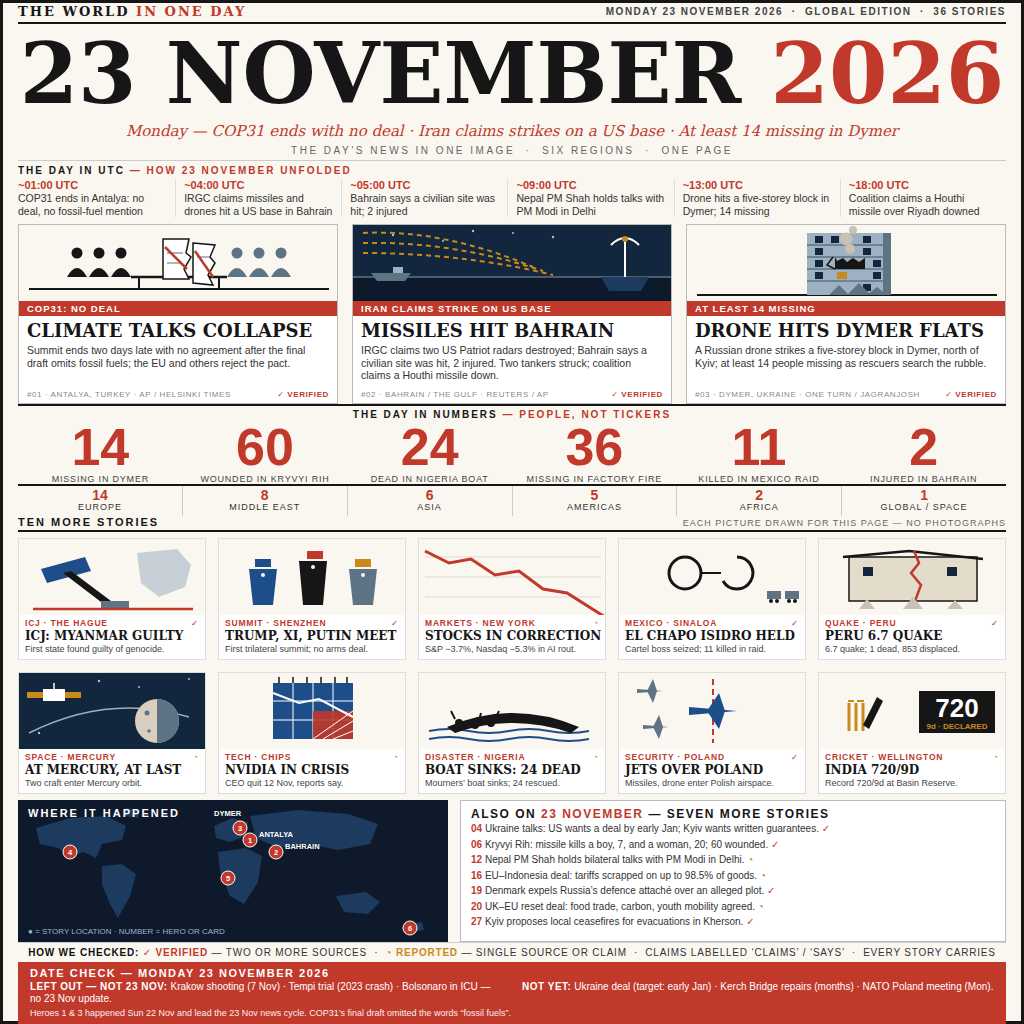
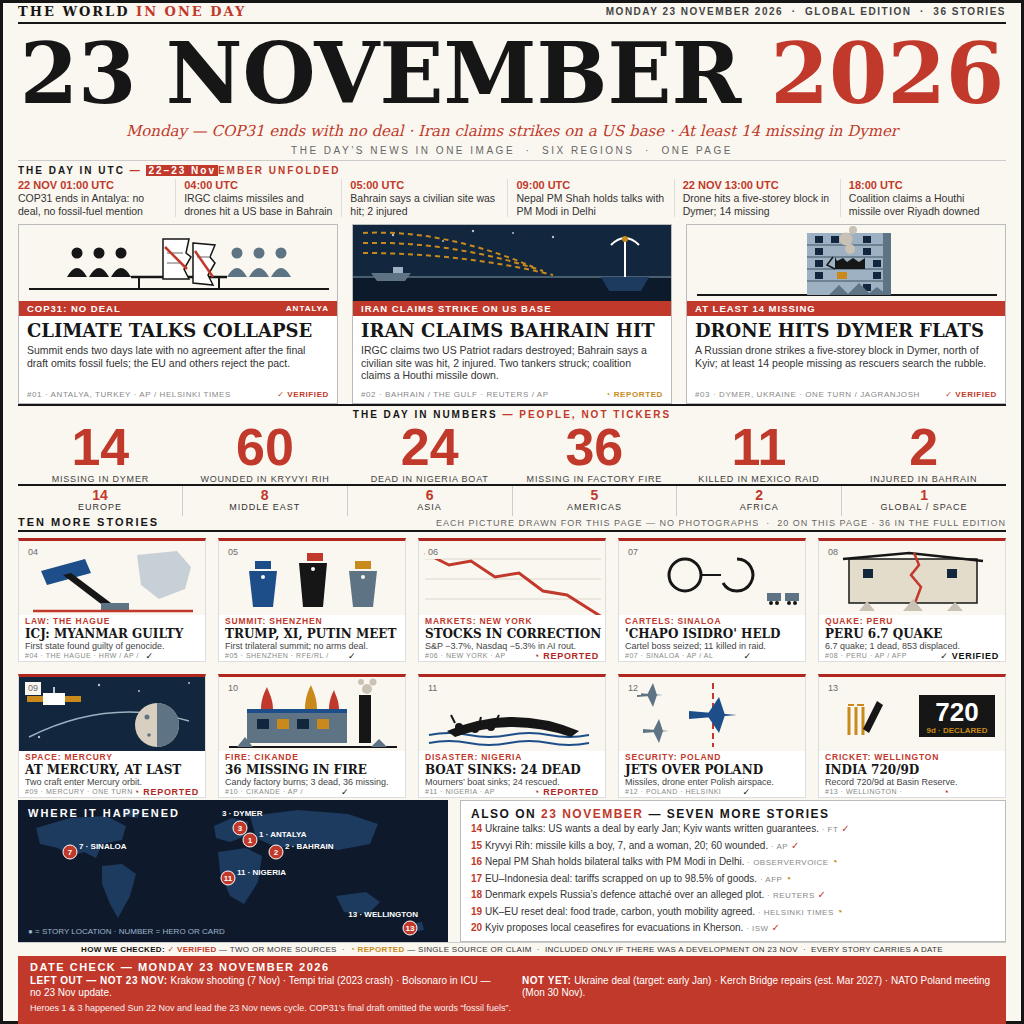
news-image-20261123: fix round — Superbot 17-fix plan (both reviewers NOT READY)
- Timeline vs DATE CHECK: header 22-23 Nov, entries 1+5 dated 22 Nov, hyphens dropped
- Inclusion rule in legend; NVIDIA replaced by Indonesia candy factory fire (#18, 3 dead, 36 missing, AP/Reuters VERIFIED) — no fabricated board meeting
- Hero 2 headline IRAN CLAIMS BAHRAIN HIT, badge REPORTED
- One sequence 01-20 (heroes 01-03, cards 04-13, ALSO ON 14-20), map markers renumbered + labelled
- Source + mark on all 17 stories; legend rewritten (fits one line); 36 vs 20 explained
- Item 27 as ALSO ON row 20; hero 1 kicker ANTALYA; badges 9px labelled
- EL CHAPO ISIDRO -> 'CHAPO ISIDRO' HELD; NOT YET dated; map labels on one line
- KRYVYI RIH spelling (was already correct); DATE CHECK footnote 9px + padding
- 3px red rule on card tops; kickers normalised to topic: place

diff --git a/build/front.html b/build/front.html
@@ -24,6 +24,7 @@
   .utc { top:160px; height:64px; border-top:1px solid #ccc; padding-top:4px; }
   .utc .uh { font-size:10px; font-weight:700; letter-spacing:2px; }
   .utc .uh span { color:#c0392b; }
+  .utc .uh .hl { background:#c0392b; color:#fff; padding:0 2px; }
   .utc .cols { display:flex; margin-top:3px; }
   .utc .col { flex:1; padding:0 8px; border-left:1px solid #ddd; }
   .utc .col:first-child { border-left:none; padding-left:0; }
@@ -34,7 +35,8 @@
   .hero { width:320px; height:180px; border:1px solid #bbb; background:#fff; position:relative; overflow:hidden; }
   .hero .art { width:320px; height:76px; overflow:hidden; }
   .hero .art svg { display:block; }
-  .hero .banner { height:15px; background:#c0392b; color:#fff; font-size:9.5px; font-weight:700; letter-spacing:1px; line-height:15px; padding-left:8px; }
+  .hero .banner { height:15px; background:#c0392b; color:#fff; font-size:9.5px; font-weight:700; letter-spacing:1px; line-height:15px; padding-left:8px; display:flex; justify-content:space-between; align-items:center; }
+  .hero .banner .br { font-size:8px; padding-right:8px; letter-spacing:1px; }
   .hero h2 { font-family:"DejaVu Serif",serif; font-size:18px; font-weight:700; line-height:21px; padding:4px 8px 0 8px; white-space:nowrap; }
   .hero .dek { font-size:10.5px; line-height:12.5px; color:#333; padding:3px 8px 0 8px; }
   .hero .src { position:absolute; left:8px; right:8px; bottom:4px; font-size:8px; letter-spacing:0.6px; color:#888; display:flex; justify-content:space-between; }
@@ -59,16 +61,18 @@
   .cardsband .ch { height:16px; display:flex; justify-content:space-between; align-items:baseline; border-bottom:2px solid #161616; }
   .cardsband .ch .t { font-size:11px; font-weight:700; letter-spacing:2px; }
   .cardsband .ch .n { font-size:9px; letter-spacing:1px; color:#666; }
-  .grid { display:grid; grid-template-columns:188px 188px 188px 188px 188px; grid-template-rows:122px 122px; gap:12px; margin-top:6px; }
-  .card { border:1px solid #ddd; background:#fff; overflow:hidden; }
-  .card .art { width:188px; height:76px; overflow:hidden; }
+  .grid { display:grid; grid-template-columns:188px 188px 188px 188px 188px; grid-template-rows:124px 124px; gap:12px; margin-top:6px; }
+  .card { position:relative; border:1px solid #ddd; border-top:3px solid #B3261E; background:#fff; overflow:hidden; }
+  .card .art { width:188px; height:74px; overflow:hidden; }
   .card .art svg { display:block; }
-  .card .ban { font-size:8.5px; font-weight:700; letter-spacing:0.8px; color:#c0392b; padding:3px 6px 0 6px; display:flex; justify-content:space-between; }
-  .card .ban .badge { color:#c0392b; }
-  .card .ban .badge.rep { color:#c98a1b; }
-  .card h3 { font-family:"DejaVu Serif",serif; font-size:12px; font-weight:700; line-height:14px; padding:1px 6px 0 6px; white-space:nowrap; }
-  .card .dek { font-size:9px; line-height:10.5px; color:#444; padding:1px 6px 0 6px; white-space:nowrap; overflow:hidden; }
-  .card .src { font-size:7.5px; letter-spacing:0.5px; color:#888; padding:2px 6px 0 6px; }
+  .card .num { position:absolute; top:5px; left:6px; font-size:9px; line-height:11px; color:#6B6B6B; background:#faf7f0; padding:1px 3px; z-index:3; }
+  .card .ban { font-size:8.5px; font-weight:700; letter-spacing:0.8px; color:#c0392b; padding:0 6px; line-height:12px; height:12px; }
+  .card h3 { font-family:"DejaVu Serif",serif; font-size:12px; font-weight:700; line-height:14px; height:14px; padding:0 6px; white-space:nowrap; }
+  .card .dek { font-size:9px; line-height:10px; height:10px; color:#444; padding:0 6px; white-space:nowrap; overflow:hidden; }
+  .card .src { font-size:7px; letter-spacing:0.5px; color:#888; padding:0 6px; line-height:10px; height:10px; display:flex; justify-content:space-between; }
+  .card .src .fbadge { font-size:9px; font-weight:700; letter-spacing:0.08em; }
+  .card .src .fbadge.v { color:#111111; }
+  .card .src .fbadge.r { color:#B3261E; }
   /* 8 map + also 800-942 */
   .mapband { top:800px; height:142px; display:flex; gap:12px; }
   .map { width:430px; height:142px; background:#0e1a2b; position:relative; overflow:hidden; }
@@ -80,20 +84,21 @@
   .also .ah span { color:#c0392b; }
   .also .ai { font-size:10px; line-height:14.5px; color:#333; margin-top:1px; white-space:nowrap; overflow:hidden; }
   .also .ai b { color:#c0392b; }
+  .also .ai .asrc { font-size:8px; color:#888; letter-spacing:0.5px; }
   .also .ai .bdg { font-weight:700; color:#c0392b; }
   .also .ai .bdg.rep { color:#c98a1b; }
-  /* 9 how checked 942-962 */
-  .checked { top:942px; height:20px; border-top:1px solid #ccc; font-size:10px; letter-spacing:0.8px; color:#333; text-align:center; line-height:20px; }
+  /* 9 how checked 942-956 */
+  .checked { top:942px; height:14px; border-top:1px solid #ccc; font-size:8px; letter-spacing:0.04em; color:#333; text-align:center; line-height:14px; }
   .checked b { color:#111; }
   .checked .v { color:#c0392b; font-weight:700; }
   .checked .r { color:#c98a1b; font-weight:700; }
-  /* 10 date check 962-1024 */
-  .datecheck { top:962px; height:62px; background:#c0392b; color:#fff; padding:5px 12px 0 12px; }
+  /* 10 date check 956-1024 */
+  .datecheck { top:956px; height:68px; background:#c0392b; color:#fff; padding:5px 12px 6px 12px; }
   .datecheck .t { font-size:11px; font-weight:700; letter-spacing:1.5px; }
   .datecheck .cols { display:flex; gap:20px; margin-top:2px; }
   .datecheck .col { flex:1; font-size:10px; line-height:12px; }
   .datecheck .col b { letter-spacing:0.5px; }
-  .datecheck .foot { font-size:9px; line-height:11px; margin-top:3px; opacity:0.92; }
+  .datecheck .foot { font-size:9px; line-height:1.4; margin-top:3px; opacity:0.92; }
 </style>
 </head>
 <body>
@@ -112,14 +117,14 @@
 </div>
 
 <div class="band utc">
-  <div class="uh">THE DAY IN UTC <span>&mdash; HOW 23 NOVEMBER UNFOLDED</span></div>
+  <div class="uh">THE DAY IN UTC <span>&mdash; <span class="hl">22&ndash;23 Nov</span>EMBER UNFOLDED</span></div>
   <div class="cols">
-    <div class="col"><div class="t">~01:00 UTC</div><div class="e">COP31 ends in Antalya: no deal, no fossil-fuel mention</div></div>
-    <div class="col"><div class="t">~04:00 UTC</div><div class="e">IRGC claims missiles and drones hit a US base in Bahrain</div></div>
-    <div class="col"><div class="t">~05:00 UTC</div><div class="e">Bahrain says a civilian site was hit; 2 injured</div></div>
-    <div class="col"><div class="t">~09:00 UTC</div><div class="e">Nepal PM Shah holds talks with PM Modi in Delhi</div></div>
-    <div class="col"><div class="t">~13:00 UTC</div><div class="e">Drone hits a five-storey block in Dymer; 14 missing</div></div>
-    <div class="col"><div class="t">~18:00 UTC</div><div class="e">Coalition claims a Houthi missile over Riyadh downed</div></div>
+    <div class="col"><div class="t">22 NOV 01:00 UTC</div><div class="e">COP31 ends in Antalya: no deal, no fossil-fuel mention</div></div>
+    <div class="col"><div class="t">04:00 UTC</div><div class="e">IRGC claims missiles and drones hit a US base in Bahrain</div></div>
+    <div class="col"><div class="t">05:00 UTC</div><div class="e">Bahrain says a civilian site was hit; 2 injured</div></div>
+    <div class="col"><div class="t">09:00 UTC</div><div class="e">Nepal PM Shah holds talks with PM Modi in Delhi</div></div>
+    <div class="col"><div class="t">22 NOV 13:00 UTC</div><div class="e">Drone hits a five-storey block in Dymer; 14 missing</div></div>
+    <div class="col"><div class="t">18:00 UTC</div><div class="e">Coalition claims a Houthi missile over Riyadh downed</div></div>
   </div>
 </div>
 
@@ -149,7 +154,7 @@
       <line x1="146" y1="22" x2="168" y2="44" stroke="#c0392b" stroke-width="2.5"/>
       <line x1="176" y1="26" x2="194" y2="52" stroke="#c0392b" stroke-width="2.5"/>
     </svg></div>
-    <div class="banner">COP31: NO DEAL</div>
+    <div class="banner"><span>COP31: NO DEAL</span><span class="br">ANTALYA</span></div>
     <h2>CLIMATE TALKS COLLAPSE</h2>
     <div class="dek">Summit ends two days late with no agreement after the final draft omits fossil fuels; the EU and others reject the pact.</div>
     <div class="src"><span>#01 &middot; ANTALYA, TURKEY &middot; AP / HELSINKI TIMES</span><span class="badge">&#10003; VERIFIED</span></div>
@@ -173,9 +178,9 @@
       <circle cx="272" cy="14" r="3" fill="#c98a1b"/>
     </svg></div>
     <div class="banner">IRAN CLAIMS STRIKE ON US BASE</div>
-    <h2>MISSILES HIT BAHRAIN</h2>
+    <h2>IRAN CLAIMS BAHRAIN HIT</h2>
     <div class="dek">IRGC claims two US Patriot radars destroyed; Bahrain says a civilian site was hit, 2 injured. Two tankers struck; coalition claims a Houthi missile down.</div>
-    <div class="src"><span>#02 &middot; BAHRAIN / THE GULF &middot; REUTERS / AP</span><span class="badge">&#10003; VERIFIED</span></div>
+    <div class="src"><span>#02 &middot; BAHRAIN / THE GULF &middot; REUTERS / AP</span><span class="badge rep">&#9684; REPORTED</span></div>
   </div>
   <div class="hero">
     <div class="art"><svg width="320" height="76" viewBox="0 0 320 76">
@@ -228,7 +233,7 @@
 </div>
 
 <div class="band cardsband">
-  <div class="ch"><span class="t">TEN MORE STORIES</span><span class="n">EACH PICTURE DRAWN FOR THIS PAGE &mdash; NO PHOTOGRAPHS</span></div>
+  <div class="ch"><span class="t">TEN MORE STORIES</span><span class="n">EACH PICTURE DRAWN FOR THIS PAGE &mdash; NO PHOTOGRAPHS &nbsp;&middot;&nbsp; 20 ON THIS PAGE &middot; 36 IN THE FULL EDITION</span></div>
   <div class="grid">
     <div class="card">
       <div class="art"><svg width="188" height="76" viewBox="0 0 188 76">
@@ -239,10 +244,11 @@
         <rect x="82" y="62" width="28" height="7" fill="#5e7484"/>
         <line x1="14" y1="70" x2="174" y2="70" stroke="#c0392b" stroke-width="2.5"/>
       </svg></div>
-      <div class="ban"><span>ICJ &middot; THE HAGUE</span><span class="badge">&#10003;</span></div>
+      <span class="num">04</span>
+      <div class="ban"><span>LAW: THE HAGUE</span></div>
       <h3>ICJ: MYANMAR GUILTY</h3>
       <div class="dek">First state found guilty of genocide.</div>
-      <div class="src">HRW &middot; AP &middot; BBC</div>
+      <div class="src"><span>#04 &middot; THE HAGUE &middot; HRW / AP / BBC</span><span class="fbadge v">&#10003; VERIFIED</span></div>
     </div>
     <div class="card">
       <div class="art"><svg width="188" height="76" viewBox="0 0 188 76">
@@ -255,10 +261,11 @@
         <polygon points="130,30 158,30 154,66 134,66" fill="#5e7484"/>
         <g fill="#faf7f0"><circle cx="44" cy="36" r="2"/><circle cx="94" cy="28" r="2"/><circle cx="144" cy="36" r="2"/></g>
       </svg></div>
-      <div class="ban"><span>SUMMIT &middot; SHENZHEN</span><span class="badge">&#10003;</span></div>
+      <span class="num">05</span>
+      <div class="ban"><span>SUMMIT: SHENZHEN</span></div>
       <h3>TRUMP, XI, PUTIN MEET</h3>
       <div class="dek">First trilateral summit; no arms deal.</div>
-      <div class="src">RFE/RL &middot; HELSINKI TIMES</div>
+      <div class="src"><span>#05 &middot; SHENZHEN &middot; RFE/RL / HELSINKI</span><span class="fbadge v">&#10003; VERIFIED</span></div>
     </div>
     <div class="card">
       <div class="art"><svg width="188" height="76" viewBox="0 0 188 76">
@@ -266,10 +273,11 @@
         <g stroke="#ddd8cc" stroke-width="1"><line x1="6" y1="18" x2="182" y2="18"/><line x1="6" y1="38" x2="182" y2="38"/><line x1="6" y1="58" x2="182" y2="58"/></g>
         <polyline points="6,12 30,24 52,20 76,36 100,32 124,50 148,54 186,78" fill="none" stroke="#c0392b" stroke-width="3"/>
       </svg></div>
-      <div class="ban"><span>MARKETS &middot; NEW YORK</span><span class="badge rep">&#9684;</span></div>
+      <span class="num">06</span>
+      <div class="ban"><span>MARKETS: NEW YORK</span></div>
       <h3>STOCKS IN CORRECTION</h3>
       <div class="dek">S&amp;P &minus;3.7%, Nasdaq &minus;5.3% in AI rout.</div>
-      <div class="src">AP &mdash; SINGLE SOURCE</div>
+      <div class="src"><span>#06 &middot; NEW YORK &middot; AP</span><span class="fbadge r">&#9684; REPORTED</span></div>
     </div>
     <div class="card">
       <div class="art"><svg width="188" height="76" viewBox="0 0 188 76">
@@ -280,10 +288,11 @@
         <g fill="#5e7484"><rect x="148" y="52" width="14" height="8"/><rect x="166" y="52" width="14" height="8"/></g>
         <g fill="#161616"><circle cx="152" cy="62" r="2"/><circle cx="158" cy="62" r="2"/><circle cx="170" cy="62" r="2"/><circle cx="176" cy="62" r="2"/></g>
       </svg></div>
-      <div class="ban"><span>MEXICO &middot; SINALOA</span><span class="badge">&#10003;</span></div>
-      <h3>EL CHAPO ISIDRO HELD</h3>
+      <span class="num">07</span>
+      <div class="ban"><span>CARTELS: SINALOA</span></div>
+      <h3>&#39;CHAPO ISIDRO&#39; HELD</h3>
       <div class="dek">Cartel boss seized; 11 killed in raid.</div>
-      <div class="src">AP &middot; AL JAZEERA</div>
+      <div class="src"><span>#07 &middot; SINALOA &middot; AP / AL JAZEERA</span><span class="fbadge v">&#10003; VERIFIED</span></div>
     </div>
     <div class="card">
       <div class="art"><svg width="188" height="76" viewBox="0 0 188 76">
@@ -296,10 +305,11 @@
         <polygon points="84,70 94,58 104,70" fill="#c9c2b4"/>
         <polygon points="128,70 136,61 144,70" fill="#c9c2b4"/>
       </svg></div>
-      <div class="ban"><span>QUAKE &middot; PERU</span><span class="badge">&#10003;</span></div>
+      <span class="num">08</span>
+      <div class="ban"><span>QUAKE: PERU</span></div>
       <h3>PERU 6.7 QUAKE</h3>
       <div class="dek">6.7 quake; 1 dead, 853 displaced.</div>
-      <div class="src">AP &middot; AFP</div>
+      <div class="src"><span>#08 &middot; PERU &middot; AP / AFP</span><span class="fbadge v">&#10003; VERIFIED</span></div>
     </div>
     <div class="card">
       <div class="art"><svg width="188" height="76" viewBox="0 0 188 76">
@@ -314,25 +324,35 @@
         <path d="M138,26 A22,22 0 0 1 138,70 Z" fill="#5e7484"/>
         <g fill="#5e7484"><circle cx="128" cy="40" r="2.5"/><circle cx="146" cy="56" r="2"/><circle cx="130" cy="58" r="1.8"/></g>
       </svg></div>
-      <div class="ban"><span>SPACE &middot; MERCURY</span><span class="badge rep">&#9684;</span></div>
+      <span class="num">09</span>
+      <div class="ban"><span>SPACE: MERCURY</span></div>
       <h3>AT MERCURY, AT LAST</h3>
       <div class="dek">Two craft enter Mercury orbit.</div>
-      <div class="src">ONE TURN &mdash; SINGLE SOURCE</div>
+      <div class="src"><span>#09 &middot; MERCURY &middot; ONE TURN</span><span class="fbadge r">&#9684; REPORTED</span></div>
     </div>
     <div class="card">
       <div class="art"><svg width="188" height="76" viewBox="0 0 188 76">
         <rect width="188" height="76" fill="#faf7f0"/>
-        <rect x="54" y="10" width="80" height="56" fill="#1d4e89"/>
-        <g stroke="#ffffff" stroke-width="1"><line x1="74" y1="10" x2="74" y2="66"/><line x1="94" y1="10" x2="94" y2="66"/><line x1="114" y1="10" x2="114" y2="66"/><line x1="54" y1="28" x2="134" y2="28"/><line x1="54" y1="47" x2="134" y2="47"/></g>
-        <rect x="94" y="38" width="40" height="28" fill="#c0392b" opacity="0.9"/>
-        <g stroke="#ffffff" stroke-width="1"><line x1="94" y1="66" x2="134" y2="38"/><line x1="104" y1="66" x2="134" y2="48"/><line x1="114" y1="66" x2="134" y2="58"/></g>
-        <polyline points="54,20 80,30 100,26 134,44" fill="none" stroke="#ffffff" stroke-width="2"/>
-        <g stroke="#161616" stroke-width="1.5"><line x1="60" y1="10" x2="60" y2="4"/><line x1="74" y1="10" x2="74" y2="4"/><line x1="88" y1="10" x2="88" y2="4"/><line x1="102" y1="10" x2="102" y2="4"/><line x1="116" y1="10" x2="116" y2="4"/><line x1="128" y1="10" x2="128" y2="4"/></g>
+        <g fill="#c9c2b4"><circle cx="148" cy="12" r="5"/><circle cx="154" cy="5" r="3.5"/><circle cx="142" cy="5" r="3"/></g>
+        <rect x="140" y="18" width="12" height="48" fill="#161616"/>
+        <rect x="28" y="32" width="100" height="34" fill="#5e7484"/>
+        <rect x="28" y="32" width="100" height="4" fill="#1d4e89"/>
+        <rect x="38" y="42" width="12" height="10" fill="#12263d"/>
+        <rect x="58" y="42" width="12" height="10" fill="#c98a1b"/>
+        <rect x="78" y="42" width="12" height="10" fill="#12263d"/>
+        <rect x="98" y="42" width="12" height="10" fill="#c98a1b"/>
+        <path d="M42,32 C42,22 46,14 48,10 C50,16 54,22 54,32 Z" fill="#c0392b"/>
+        <path d="M86,32 C86,20 90,12 92,8 C94,14 98,20 98,32 Z" fill="#c98a1b"/>
+        <path d="M110,32 C110,24 113,17 115,13 C117,19 120,24 120,32 Z" fill="#c0392b"/>
+        <line x1="10" y1="70" x2="178" y2="70" stroke="#161616" stroke-width="2"/>
+        <polygon points="18,70 26,60 34,70" fill="#5e7484"/>
+        <polygon points="152,70 160,62 168,70" fill="#5e7484"/>
       </svg></div>
-      <div class="ban"><span>TECH &middot; CHIPS</span><span class="badge rep">&#9684;</span></div>
-      <h3>NVIDIA IN CRISIS</h3>
-      <div class="dek">CEO quit 12 Nov, reports say.</div>
-      <div class="src">CLSTR &mdash; REPORTED CLAIM</div>
+      <span class="num">10</span>
+      <div class="ban"><span>FIRE: CIKANDE</span></div>
+      <h3>36 MISSING IN FIRE</h3>
+      <div class="dek">Candy factory burns; 3 dead, 36 missing.</div>
+      <div class="src"><span>#10 &middot; CIKANDE &middot; AP / REUTERS</span><span class="fbadge v">&#10003; VERIFIED</span></div>
     </div>
     <div class="card">
       <div class="art"><svg width="188" height="76" viewBox="0 0 188 76">
@@ -345,10 +365,11 @@
         <g fill="#161616"><circle cx="40" cy="50" r="4"/><circle cx="56" cy="52" r="4"/><circle cx="72" cy="50" r="4"/></g>
         <g stroke="#161616" stroke-width="2"><line x1="36" y1="46" x2="32" y2="38"/><line x1="60" y1="48" x2="62" y2="40"/><line x1="76" y1="46" x2="80" y2="38"/></g>
       </svg></div>
-      <div class="ban"><span>DISASTER &middot; NIGERIA</span><span class="badge rep">&#9684;</span></div>
+      <span class="num">11</span>
+      <div class="ban"><span>DISASTER: NIGERIA</span></div>
       <h3>BOAT SINKS: 24 DEAD</h3>
       <div class="dek">Mourners&rsquo; boat sinks; 24 rescued.</div>
-      <div class="src">AP &mdash; SINGLE SOURCE</div>
+      <div class="src"><span>#11 &middot; NIGERIA &middot; AP</span><span class="fbadge r">&#9684; REPORTED</span></div>
     </div>
     <div class="card">
       <div class="art"><svg width="188" height="76" viewBox="0 0 188 76">
@@ -364,10 +385,11 @@
           <polygon points="88,38 100,56 106,38"/>
         </g>
       </svg></div>
-      <div class="ban"><span>SECURITY &middot; POLAND</span><span class="badge">&#10003;</span></div>
+      <span class="num">12</span>
+      <div class="ban"><span>SECURITY: POLAND</span></div>
       <h3>JETS OVER POLAND</h3>
       <div class="dek">Missiles, drone enter Polish airspace.</div>
-      <div class="src">HELSINKI TIMES &middot; SILK PARADOX</div>
+      <div class="src"><span>#12 &middot; POLAND &middot; HELSINKI TIMES</span><span class="fbadge v">&#10003; VERIFIED</span></div>
     </div>
     <div class="card">
       <div class="art"><svg width="188" height="76" viewBox="0 0 188 76">
@@ -379,10 +401,11 @@
         <text x="138" y="44" text-anchor="middle" font-family="Liberation Sans, DejaVu Sans, sans-serif" font-size="26" font-weight="700" fill="#ffffff">720</text>
         <text x="138" y="56" text-anchor="middle" font-family="Liberation Sans, DejaVu Sans, sans-serif" font-size="8" font-weight="700" fill="#c98a1b">9d &middot; DECLARED</text>
       </svg></div>
-      <div class="ban"><span>CRICKET &middot; WELLINGTON</span><span class="badge rep">&#9684;</span></div>
+      <span class="num">13</span>
+      <div class="ban"><span>CRICKET: WELLINGTON</span></div>
       <h3>INDIA 720/9D</h3>
       <div class="dek">Record 720/9d at Basin Reserve.</div>
-      <div class="src">OBSERVERVOICE &mdash; SINGLE SOURCE</div>
+      <div class="src"><span>#13 &middot; WELLINGTON &middot; OBSERVERVOICE</span><span class="fbadge r">&#9684; REPORTED</span></div>
     </div>
   </div>
 </div>
@@ -401,36 +424,36 @@
         <polygon points="318,96 348,92 362,102 350,114 326,112"/>
         <polygon points="392,124 404,122 406,130 394,132"/>
       </g>
-      <g font-family="Liberation Sans, DejaVu Sans, sans-serif" font-size="7.5" font-weight="700" fill="#ffffff">
-        <g><circle cx="232" cy="40" r="7" fill="#c0392b" stroke="#ffffff" stroke-width="1"/><text x="232" y="42.5" text-anchor="middle">1</text><text x="241" y="37">ANTALYA</text></g>
-        <g><circle cx="258" cy="52" r="7" fill="#c0392b" stroke="#ffffff" stroke-width="1"/><text x="258" y="54.5" text-anchor="middle">2</text><text x="267" y="49">BAHRAIN</text></g>
-        <g><circle cx="222" cy="28" r="7" fill="#c0392b" stroke="#ffffff" stroke-width="1"/><text x="222" y="30.5" text-anchor="middle">3</text><text x="196" y="16">DYMER</text></g>
-        <g><circle cx="52" cy="52" r="7" fill="#c0392b" stroke="#ffffff" stroke-width="1"/><text x="52" y="54.5" text-anchor="middle">4</text></g>
-        <g><circle cx="210" cy="78" r="7" fill="#c0392b" stroke="#ffffff" stroke-width="1"/><text x="210" y="80.5" text-anchor="middle">5</text></g>
-        <g><circle cx="392" cy="128" r="7" fill="#c0392b" stroke="#ffffff" stroke-width="1"/><text x="392" y="130.5" text-anchor="middle">6</text></g>
+      <g font-family="Liberation Sans, DejaVu Sans, sans-serif" font-size="8" font-weight="700" fill="#ffffff">
+        <g><circle cx="232" cy="40" r="7" fill="#c0392b" stroke="#ffffff" stroke-width="1"/><text x="232" y="42.5" text-anchor="middle">1</text><text x="241" y="37">1 &middot; ANTALYA</text></g>
+        <g><circle cx="258" cy="52" r="7" fill="#c0392b" stroke="#ffffff" stroke-width="1"/><text x="258" y="54.5" text-anchor="middle">2</text><text x="267" y="49">2 &middot; BAHRAIN</text></g>
+        <g><circle cx="222" cy="28" r="7" fill="#c0392b" stroke="#ffffff" stroke-width="1"/><text x="222" y="30.5" text-anchor="middle">3</text><text x="204" y="16">3 &middot; DYMER</text></g>
+        <g><circle cx="52" cy="52" r="7" fill="#c0392b" stroke="#ffffff" stroke-width="1"/><text x="52" y="54.5" text-anchor="middle">7</text><text x="61" y="49">7 &middot; SINALOA</text></g>
+        <g><circle cx="210" cy="78" r="7" fill="#c0392b" stroke="#ffffff" stroke-width="1"/><text x="210" y="80.5" text-anchor="middle">11</text><text x="219" y="75">11 &middot; NIGERIA</text></g>
+        <g><circle cx="392" cy="128" r="7" fill="#c0392b" stroke="#ffffff" stroke-width="1"/><text x="392" y="130.5" text-anchor="middle">13</text><text x="400" y="117" text-anchor="end">13 &middot; WELLINGTON</text></g>
       </g>
     </svg>
     <div class="mapnote">&#9679; = STORY LOCATION &middot; NUMBER = HERO OR CARD</div>
   </div>
   <div class="also">
     <div class="ah">ALSO ON <span>23 NOVEMBER</span> &mdash; SEVEN MORE STORIES</div>
-    <div class="ai"><b>04</b> Ukraine talks: US wants a deal by early Jan; Kyiv wants written guarantees. <span class="bdg">&#10003;</span></div>
-    <div class="ai"><b>06</b> Kryvyi Rih: missile kills a boy, 7, and a woman, 20; 60 wounded. <span class="bdg">&#10003;</span></div>
-    <div class="ai"><b>12</b> Nepal PM Shah holds bilateral talks with PM Modi in Delhi. <span class="bdg rep">&#9684;</span></div>
-    <div class="ai"><b>16</b> EU&ndash;Indonesia deal: tariffs scrapped on up to 98.5% of goods. <span class="bdg rep">&#9684;</span></div>
-    <div class="ai"><b>19</b> Denmark expels Russia&rsquo;s defence attach&eacute; over an alleged plot. <span class="bdg">&#10003;</span></div>
-    <div class="ai"><b>20</b> UK&ndash;EU reset deal: food trade, carbon, youth mobility agreed. <span class="bdg rep">&#9684;</span></div>
-    <div class="ai"><b>27</b> Kyiv proposes local ceasefires for evacuations in Kherson. <span class="bdg">&#10003;</span></div>
+    <div class="ai"><b>14</b> Ukraine talks: US wants a deal by early Jan; Kyiv wants written guarantees. <span class="asrc">&middot; FT</span> <span class="bdg">&#10003;</span></div>
+    <div class="ai"><b>15</b> Kryvyi Rih: missile kills a boy, 7, and a woman, 20; 60 wounded. <span class="asrc">&middot; AP</span> <span class="bdg">&#10003;</span></div>
+    <div class="ai"><b>16</b> Nepal PM Shah holds bilateral talks with PM Modi in Delhi. <span class="asrc">&middot; OBSERVERVOICE</span> <span class="bdg rep">&#9684;</span></div>
+    <div class="ai"><b>17</b> EU&ndash;Indonesia deal: tariffs scrapped on up to 98.5% of goods. <span class="asrc">&middot; AFP</span> <span class="bdg rep">&#9684;</span></div>
+    <div class="ai"><b>18</b> Denmark expels Russia&rsquo;s defence attach&eacute; over an alleged plot. <span class="asrc">&middot; REUTERS</span> <span class="bdg">&#10003;</span></div>
+    <div class="ai"><b>19</b> UK&ndash;EU reset deal: food trade, carbon, youth mobility agreed. <span class="asrc">&middot; HELSINKI TIMES</span> <span class="bdg rep">&#9684;</span></div>
+    <div class="ai"><b>20</b> Kyiv proposes local ceasefires for evacuations in Kherson. <span class="asrc">&middot; ISW</span> <span class="bdg">&#10003;</span></div>
   </div>
 </div>
 
-<div class="band checked"><b>HOW WE CHECKED:</b> <span class="v">&#10003; VERIFIED</span> &mdash; TWO OR MORE SOURCES &nbsp;&middot;&nbsp; <span class="r">&#9684; REPORTED</span> &mdash; SINGLE SOURCE OR CLAIM &nbsp;&middot;&nbsp; CLAIMS LABELLED &lsquo;CLAIMS&rsquo; / &lsquo;SAYS&rsquo; &nbsp;&middot;&nbsp; EVERY STORY CARRIES ITS BADGE</div>
+<div class="band checked"><b>HOW WE CHECKED:</b> <span class="v">&#10003; VERIFIED</span> &mdash; TWO OR MORE SOURCES &nbsp;&middot;&nbsp; <span class="r">&#9684; REPORTED</span> &mdash; SINGLE SOURCE OR CLAIM &nbsp;&middot;&nbsp; INCLUDED ONLY IF THERE WAS A DEVELOPMENT ON 23 NOV &nbsp;&middot;&nbsp; EVERY STORY CARRIES A DATE</div>
 
 <div class="band datecheck">
   <div class="t">DATE CHECK &mdash; MONDAY 23 NOVEMBER 2026</div>
   <div class="cols">
     <div class="col"><b>LEFT OUT &mdash; NOT 23 NOV:</b> Krakow shooting (7 Nov) &middot; Tempi trial (2023 crash) &middot; Bolsonaro in ICU &mdash; no 23 Nov update.</div>
-    <div class="col"><b>NOT YET:</b> Ukraine deal (target: early Jan) &middot; Kerch Bridge repairs (months) &middot; NATO Poland meeting (Mon).</div>
+    <div class="col"><b>NOT YET:</b> Ukraine deal (target: early Jan) &middot; Kerch Bridge repairs (est. Mar 2027) &middot; NATO Poland meeting (Mon 30 Nov).</div>
   </div>
   <div class="foot">Heroes 1 &amp; 3 happened Sun 22 Nov and lead the 23 Nov news cycle. COP31&rsquo;s final draft omitted the words &ldquo;fossil fuels&rdquo;.</div>
 </div>
